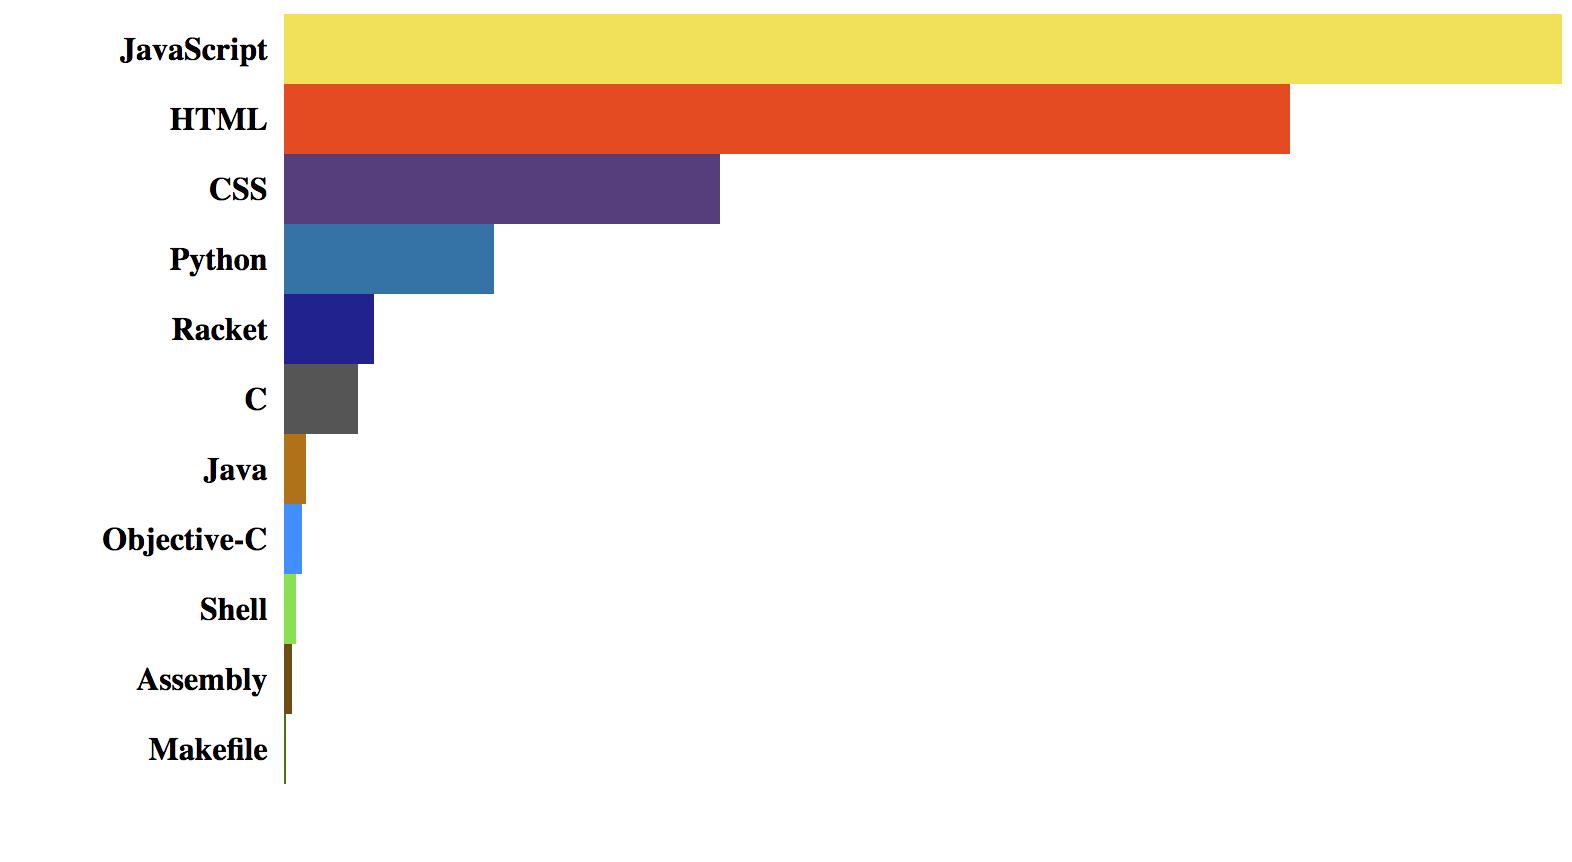
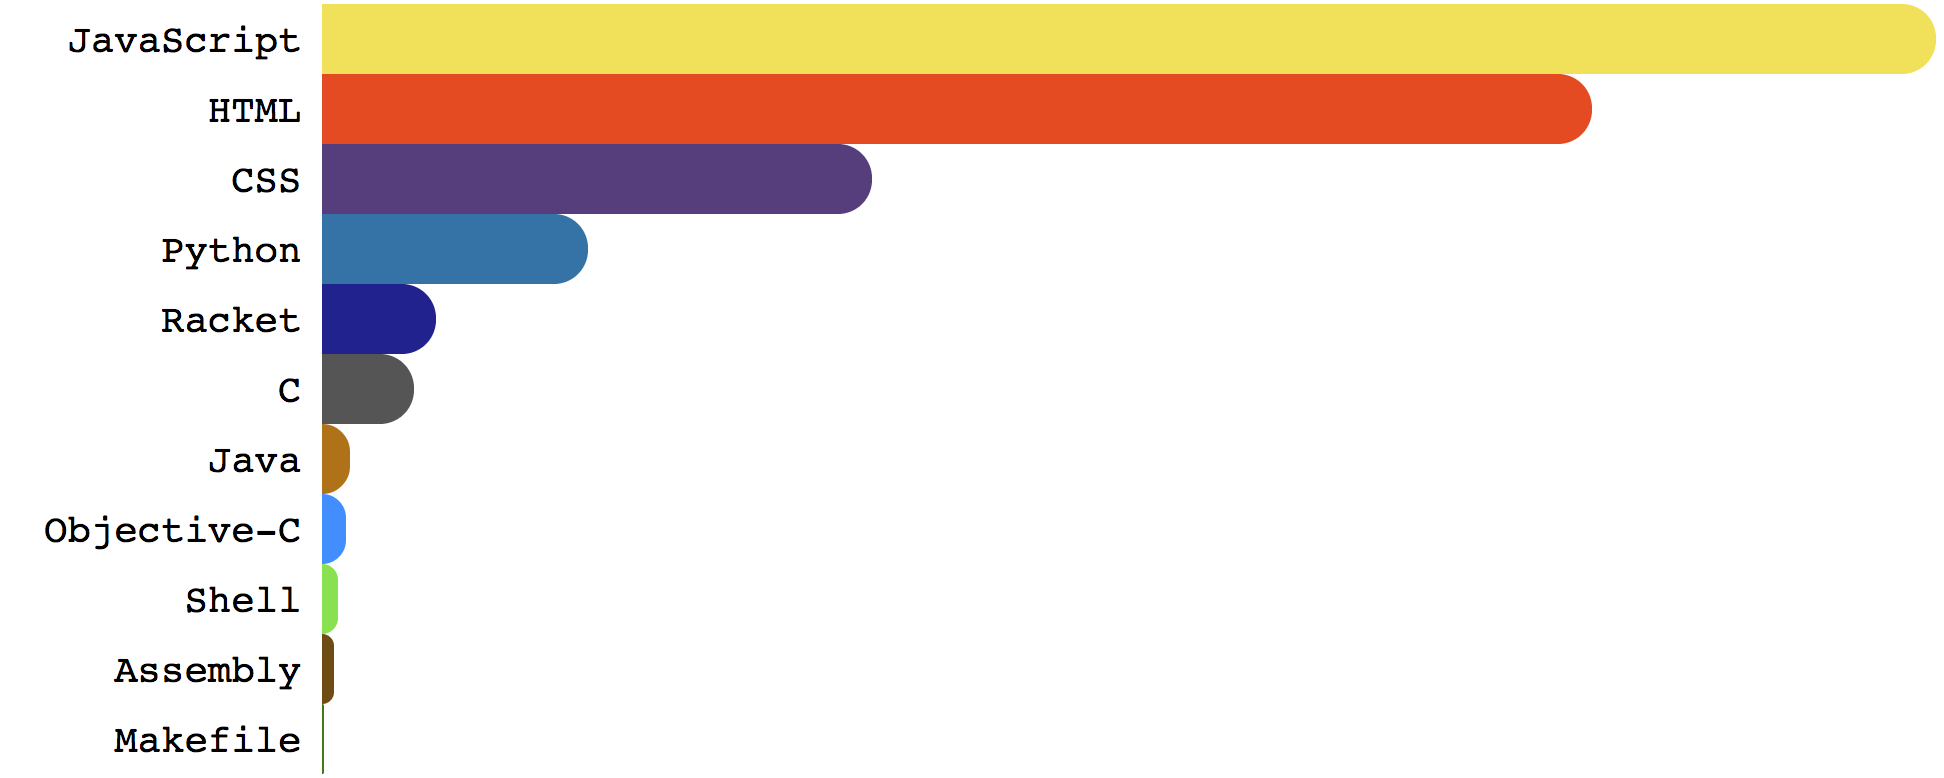
Finish post 4

diff --git a/_posts/4_github_widget_part2.md b/_posts/4_github_widget_part2.md
@@ -1,0 +1,215 @@
+{{{
+  "title": "GitHub widget Tutorial - Part 2",
+  "tags": ["JavaScript", "September 2017", "Tutorial", "API", "Functional Programming", "GitHub"],
+  "date": "9-2-2017",
+  "id": "e6dfa1c0-115b-4d11-a299-15f933a48562",
+  "description": "Build a widget using JavaScript and the GitHub API - Part 2",
+  "publish": true
+}}}
+
+This is the second part of the tutorial on how to create a JavaScript widget displaying all the languages we used in our GitHub repos.
+
+The whole tutorial covers the following:
+1. Use GitHub API
+2. Aggregate API response data
+2. Create HTML widget through vanilla JS
+3. Update widget as API responses come in
+
+In this first part we saw how to get and format the data we receive from the GitHub API, while in this second part we will take care of the rendering.
+
+<a href="../images/_3/result.png" target="_blank"><img src="../images/_3/result.png" alt-text="GitHub widget" title="GitHub Widget"></a>
+
+**NOTES**:
+
+You can find the code for the first part <a href="https://gist.github.com/NicolaFerracin/ab4ad6a2004d633164cbe06d36af8027" target="_blank" title="GitHub Widget Tutorial Part 1">here >></a>. 
+
+The complete code can be found <a target="_blank" href="https://gist.github.com/NicolaFerracin/c017b812a722c031f7b337b8981c3259">here >></a>.
+
+## Where were we?
+
+The last thing we did in the first part was to create a sorted array of arrays at the end of our `getLanguagesForRepo()` function, containing all languagese used, with the most used coming first. Something looking like this:
+
+```javascript
+[
+    ['JavaScript', 9000],
+    ['Python', 8736],
+    ['C++', 6256],
+    ['language', number_of_bytes]
+]
+```
+
+Are you ready to display some data?
+
+
+## Drawing the chart
+
+Let's start by creating a method which we can use to update our chart everytime new data comes in. This method will then take care of either:
+- draw the chart for a new language
+- or update an existing language's chart
+
+```javascript
+function getLanguagesForRepo(url) {
+    // Omitted code
+    
+    // this is the last thing we wrote in the previous post
+    const sortedLangs = Object.keys(allLanguages)
+        .map(lang => [lang, languages[lang]])
+        .sort((a, b) => b[1] - a[1]);
+
+    // new function invocation
+    updateChart(sortedLangs);
+};
+
+function updateChart(langs) {
+    // we know that we are receiving a sorted array so we can safely extract the number of bytes
+    // of the first language, which represents how many bytes we wrote with the most
+    // used language. This will be useful at the moment of determining the length of our chart.
+    const max = langs[0][1];
+
+    // now we need to loop through every language and draw it to the screen!
+    langs.forEach(lang => {
+        
+        // and here we need to decide if we either draw a new line for a new language 
+        // or update an existing one.
+        // To do that, we can simply check if we already have a line with id === language
+        if (document.getElementById(lang[0])) {
+            updateLine(lang, max)
+        } else {
+            createNewLine(lang, max);
+        }
+    });
+}
+
+// Stubs
+function createNewLine(lang, max) {};
+function updateLine(lang, max) {};
+```
+
+So, in our `updateChart()` method we are not drawing anything, we are simply looping through all the languages we retrieved up to that point in time and deciding if we need to create a new line in our chart or update an existing line.
+
+We also extracted the number of bytes of the most used language as this number will represent the 100% length of the chart, and all subsequent languages will be proportional to that. We will see this in a moment.
+
+### Drawing new languages
+
+The first time we receive some data from the API, all languages in our array are new, in the sense that we don't have an existing chart to update, we instead need to draw new data to screen. And we do this in our `createNewLine()` method.
+
+First of all, we need to decide how we want a single line to look like:
+
+```html
+<!-- Wrapper -->
+<div id="{language}">
+    <!-- Label -->
+    <div>{languageName}</div>
+    <!-- Bar -->
+    <div class="bar"></div>
+</div>
+
+```
+
+```javascript
+// let's start by adding a variable holding the chart wrapper at the top of our file
+const chart = document.getElementById('gitHubChart');
+
+// in our new method we need to append to the chart a new line representing a particular language
+function createNewLine(lang, max) {    
+    // let's create some elements based on our HTML blueprint here above
+    const line = document.createElement('div');
+    const label = document.createElement('div');
+    const bar = document.createElement('div');
+
+    // let's set an ID so we can easily check if we have a line for a given language in the future
+    line.setAttribute('id', lang[0]);
+    line.style.display = 'flex';
+
+    // define label
+    label.innerText = lang[0];
+    // we are now going to define styles one by one.
+    // Alternatively we could define them in one go as a string
+    // using element.style.cssText = 'string-of-styles';
+    label.style.width = '19%';
+    label.style.textAlign = 'right';
+    label.style.paddingRight = '1%';
+    label.style.alignSelf = 'center';
+    label.style.fontFamily = 'monospace';
+    label.style.fontSize = '1.5em';
+    
+    // define bar
+    // if the most used language represents 100% of length, than we can easily calculate the length of any
+    // other given language. The proportion is "most_used_language : 100 = given_language : x"
+    // where x is the length of the given language chart
+    bar.style.width = lang[1] * 100 / max + '%';
+    bar.className = 'bar';
+    bar.style.height = '35px';
+    bar.style.maxWidth = '80%';
+    bar.style.borderTopRightRadius = '35px';
+    bar.style.borderBottomRightRadius = '35px';
+
+    // Append all newly created elements
+    line.appendChild(label);
+    line.appendChild(bar);
+    chart.appendChild(line);
+};
+```
+
+Here we go! The biggest chunk of work is now done. By running this code, everytime we receive data for a new language from the API, it will be displayed to the screen. But we are not quite done yet, in fact every additional byte we might receive from the API will not get printed to the screen.
+
+We are going to fix this next.
+
+### Updating languages
+
+Let's do a quick recap: we have data coming in, we have a chart on the screen and we now need to update it to display new information. If you remember, we added an ID attribute for every line representing a different language, so we can easily get existing lines.
+
+```javascript
+function updateLine(lang, max) {
+    // get the line
+    line = document.getElementById(lang[0]);
+
+    // get the bar, which is the critical piece we need to udpate. The label and the wrapper won't change
+    bar = line.getElementsByClassName('bar')[0];
+    
+    // let's use the same formula we used above to determine the new length of the language chart
+    // "most_used_language : 100 = given_language : x" where x is the length of the given language chart
+    bar.style.maxWidth = lang[1] * 100 / max + '%';
+}
+```
+
+That's it! As long as we properly set up the chart on the first render, then updating it is very easy.
+
+## A splash of color
+
+Yes, we do have a working chart, but let's be honest: our chart is quite ugly. Since every language is usually associated with a specific color, wouldn't it be nice if we could color each bar with that specific language color?
+
+What we first need, is a list of colors for all the languages out there. A quick Google search brought me [here](https://github.com/doda/github-language-colors/blob/master/colors.json), where you can find a json object containing - if not all, most of the languages' colors out there. Without complicating this too much, we can just store the json as a variable in the same `.js` file or in a separate one. If you use a separate file, just remember to include it in your HTML.
+
+```javascript
+const colors = {
+    "Mercury": "#ff2b2b",
+    "TypeScript": "#2b7489",
+    "PureBasic": "#5a6986",
+    ...
+}
+```
+
+Now we need to color our chart somewhere in our code, and the best place is probably during the first rendering, in the `createNewLine()` function.
+
+```javascript
+function createNewLine(lang, max) {
+    // ...
+    bar.style.width = lang[1] * 100 / max + '%';
+    bar.className = 'bar';
+    
+    // using the language name, we can extract its color from our colors object
+    bar.style.backgroundColor = colors[lang[0]];
+    // ...
+}
+```
+
+## Summary
+
+We are done!
+
+We now have a widget making API calls and constantly updating to the screen, in less than 100 lines and without using external dependencies, just plain JavaScript.
+
+There are a few things that could be improved (styling and API response error handling, to cite a couple) but this is nevertheless a good starting point in case you want to add this widget to you portfolio or personal page, as it is.
+
+Did you find any error? Was it useful to you? Leave any feedback or comment below, and happy coding!
